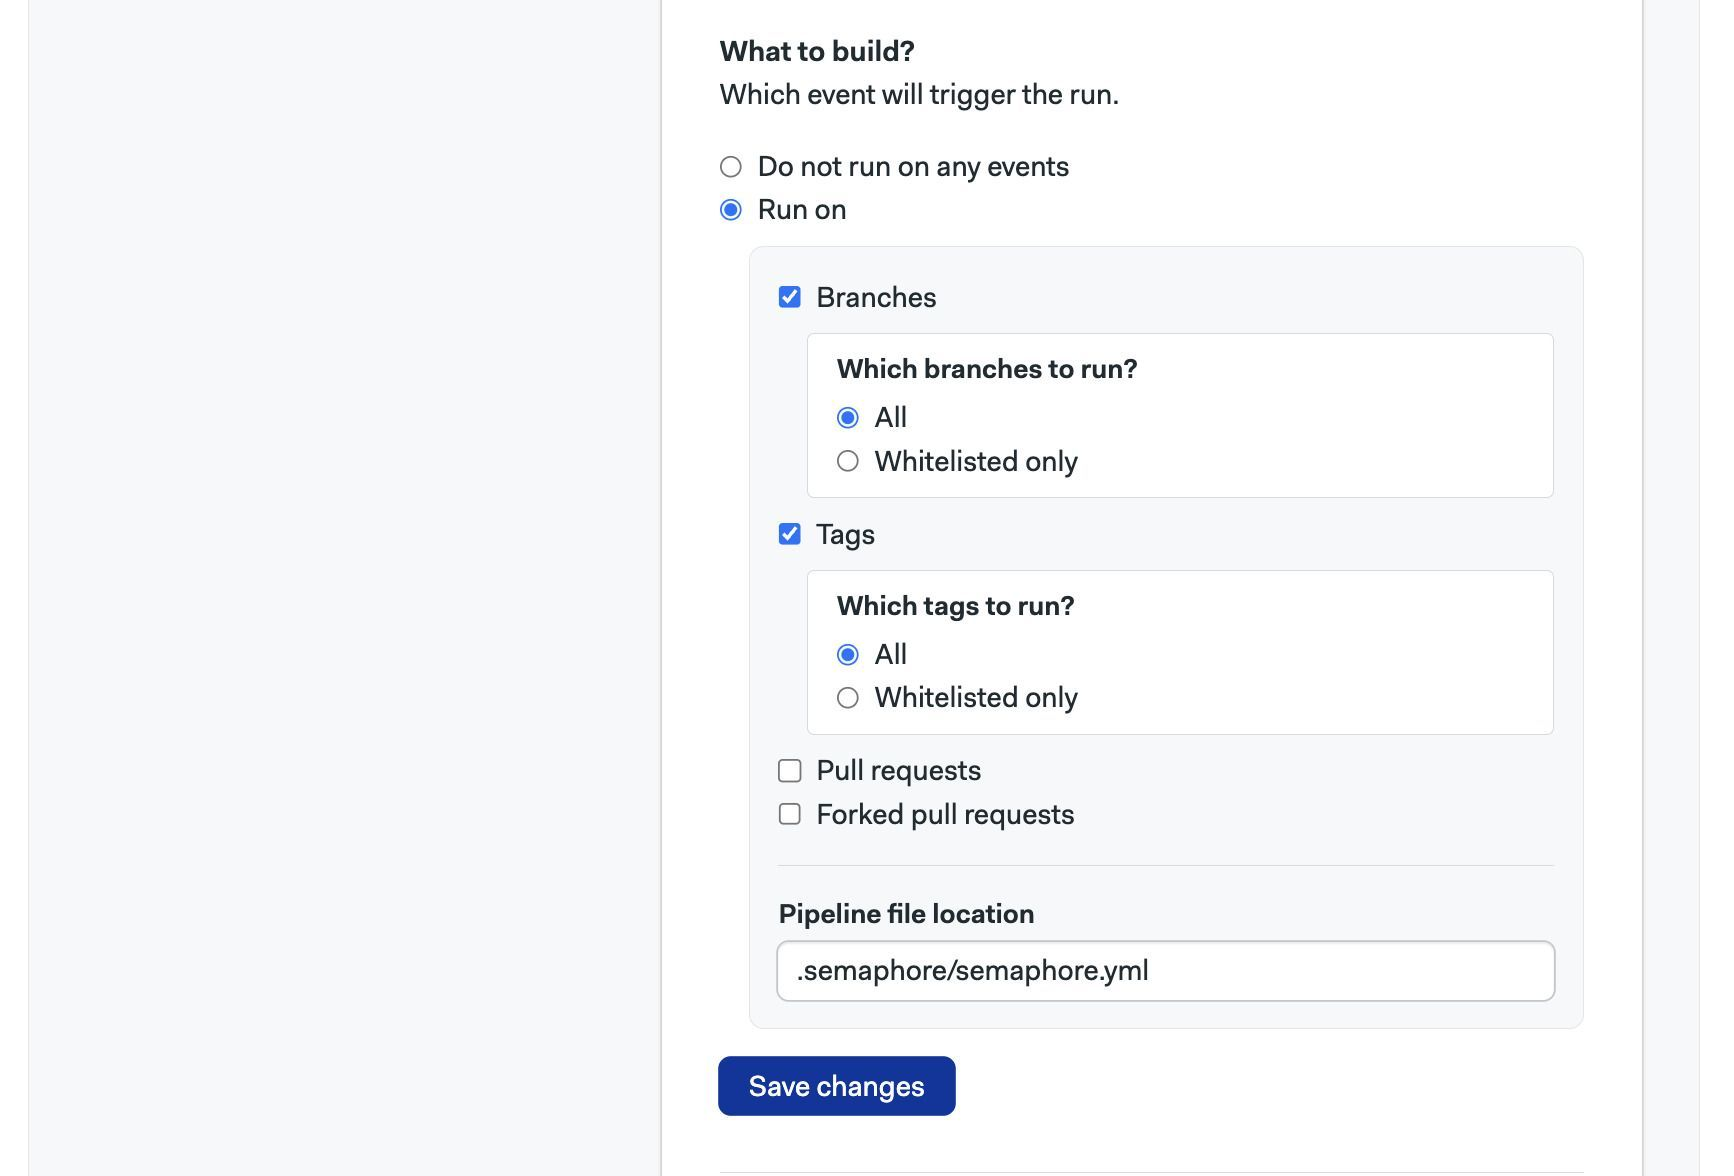
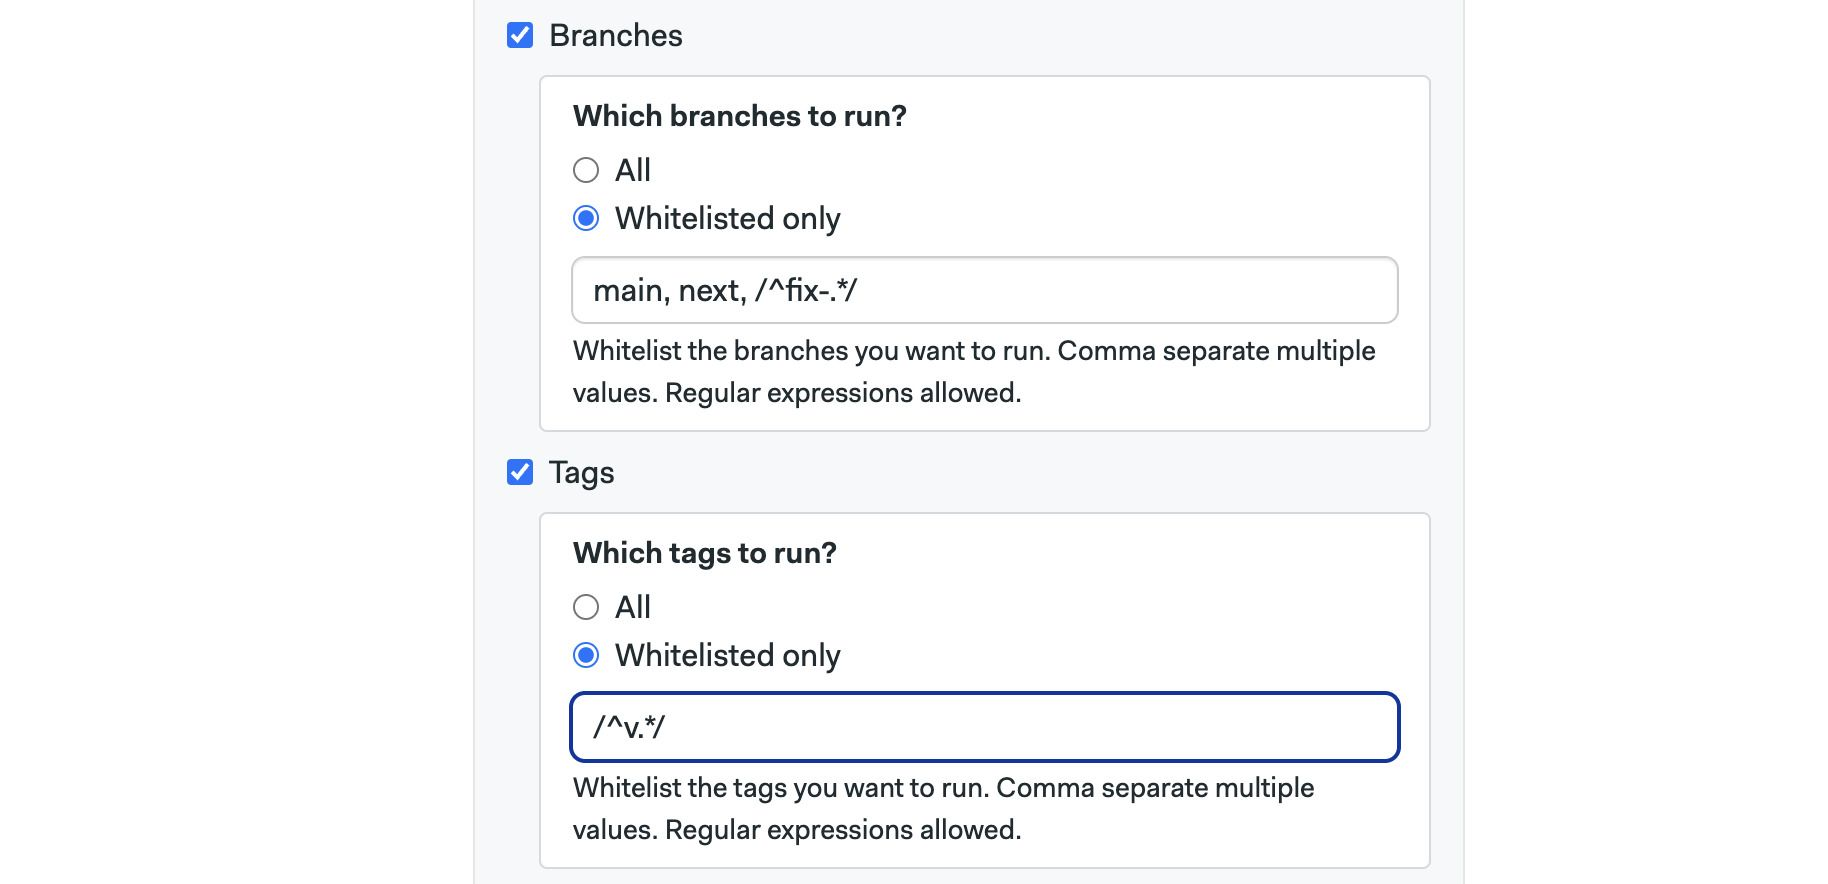
Add trigger workflow information on projects (#153)
* Checkpoint

* Grammary check

* Fix links

* Update links

* Add comment about owner

diff --git a/docs/docs/using-semaphore/projects.md b/docs/docs/using-semaphore/projects.md
@@ -9,11 +9,11 @@ import TabItem from '@theme/TabItem';
 import Available from '@site/src/components/Available';
 import VideoTutorial from '@site/src/components/VideoTutorial';
 
-Projects are repositories [continuosly integrated](https://semaphoreci.com/continuous-integration) through Semaphore. A project links your Git repository with Semaphore, so it can run [jobs](./jobs) to test, build, or deploy your application. 
+Projects are codebases developed and managed through Semaphore [Continuous Integration](https://semaphoreci.com/continuous-integration). A project links your Git repository with Semaphore, so it can run [jobs](./jobs) to test, build, or deploy your application. 
 
 This page explains how to set up projects and what settings are available.
 
-## Create a project {#project-creation}
+## Create a project {#create-project}
 
 <VideoTutorial title="Create a Project" src="https://www.youtube.com/embed/Y4Ac5EJpzEc?si=INZVrNw4LTWg3l6k"/>
 
@@ -40,7 +40,7 @@ Go to Semaphore, press **+Create New** 1 and then press **Choose repository**
     ![Select repository](./img/create-project-2.jpg)
     </div>
     </details>
-3. [Admins and Owners](./rbac#org) may optionally invite repository memebrs to your Semaphore organization and project. Press **Continue**
+3. Optionally, [add people](./organizations#people) to the project. Press **Continue**
     <details>
     <summary>Show me</summary>
     <div>
@@ -120,85 +120,30 @@ hello-semaphore                      git@github.com:semaphoreci-demos/hello-sema
 </TabItem>
 </Tabs>
 
-## How to add people {#people}
+## Workflow triggers {#triggers}
 
-Semaphore users a [Role Based Access Control](./rbac) model to manage permissions at the organization and project level.
+The following actions in the repository can trigger Semaphore to start the project's pipelines.
 
-You can only add people to the project if:
+- Pushing commits into any branch
+- Pushing Git tags
+- Creating pull requests from the same repository
+- Creating pull requests originating from a forked repository
+- Updating any of the project's pipelines using the [visual editor](./jobs#workflow editor)
+- Pressing the Run button on the Semaphore website
+- Requesting a re-run [using the API](../openapi-spec/workflows-reschedule)
+- Scheduling workflows [using Tasks](./tasks)
 
-- The person has been already invited to your Semaphore organization. Only [Admins and Owners](./rbac#org) can do this
-- The person already has access to the GitHub or BitBucket repository
+The reason for the trigger can be determined at runtime by examining the Semaphore environment variables in the job. See the [environment variable reference page](../reference/env-vars#semaphore) for more details.
 
-People added to the project can take actions according to their [project-level permisions](./rbac#project). To add a person, open the project on Semaphore and go to the **People** tab:
+### How pull requests are handled {#pr}
 
-1. Press **Add People**
-2. Select the user from the list of options
-3. Select the role
-4. Press **Add Selected**
-
-![Adding a member to the project](./img/add-user-2.jpg)
-
-If none of the pre-defined roles suit your needs, you can create [custom project roles](#custom).
+Semaphore starts a workflow for every push to a pull request originating from a forked repository. For security reasons, secrets are disabled in jobs triggered in this way. You can [create an allow list](#settings-triggers) with the secrets you want to expose in the project settings.
 
 :::note
 
-The people you add during [project creation](#project-creation) are assigned roles depending on their permission level on the repository. See [project roles](./rbac#project) to learn how repository roles are mapped to project roles.
+Instead of pushing the HEAD commit to the pull request, Semaphore uses the MERGE commit between the source and the upstream branch. You can find the SHA of the HEAD commit of the Pull Request in the [`SEMAPHORE_GIT_PR_SHA`](../reference/env-vars#pr-sha) environment variable.
 
 :::
-
-## Project roles {#project-roles}
-
-Semaphore provides pre-defined roles for projects. You can see what actions each role can perform by following these steps:
-
-1. Open the Organization **Settings** menu
-2. Select **Roles**
-    ![Settings Role location](./img/settings-roles.jpg)
-3. Scroll down to **Project Roles**
-4. Press the eye button next to the role you want to examine
-
-The actions with enabled checkbox are allowed for that role.
-
-![Project admin allowed actions](./img/project-admin-roles.jpg)
-
-### Custom project roles {#custom}
-
-Create custom roles to give your users the precise permissions they need. 
-
-1. Open the Organization **Settings** menu
-2. Select **Roles**
-3. Scroll down to **Project Roles**
-4. Press **New Role**
-5. Give a name a description to the new role
-6. Enable the permissions allowed to the role. You can use the search box to narrow down options
-7. Press **Save changes**
-
-![Creating a new project role](./img/create-custom-project-role.jpg)
-
-## How to change people roles {#people-roles}
-
-To change the role for the project, open your project and go to the **People** tab:
-
-1. Press the **Change role** next to the project member
-2. Select the new role
-
-![Changing a members role](./img/change-role.jpg)
-
-## How to add groups to projects {#groups-projects}
-
-<Available plans={['Scaleup']}/>
-
-Add an [organization group](./organizations#add-groups) to your project to grant all group members access to the project.
-
-To add a group to a project, open the project on Semaphore and go to the **People** tab:
-
-1. Press **Add Groups**
-2. Type the name of an existing group
-3. Select the role
-4. Press **Add Selected**
-
-The group members are granted access to the group and gain the permissions inherited from the selected role.
-
-![Add a group to the project](./img/add-group-to-project.jpg)
 
 ## Project tabs {#manage-projects}
 
@@ -210,33 +155,89 @@ Project members can view or manage the following project elements:
 - **Artifacts**: shows the [project-level artifacts](./artifacts#projects) and [retention policy](./artifacts#retention)
 - **Tasks**: shows the [tasks](./tasks)
 - **Flaky Tests**: shows the [flaky tests](./tests/flaky-tests) detected in the project
-- **People**: shows the [project members](#people)
+- **People**: shows or changes the [project members](#people)
 - **Settings**: shows the [project-level settings](#settings)
 
 ![Project tabs](./img/project-tabs.jpg)
+
+## How to add/remove people to the project {#people}
+
+:::note
+
+You must add individuals to your Git repository and to your [Semaphore organization](./organizations#people) before you can add them to your project.
+
+:::
+
+Open your project and go to the **People** tab
+
+1. Press **Add People**
+2. Select the user from the list of options
+3. Select the role
+4. Press **Add Selected**
+
+![Adding a member to the project](./img/add-user-2.jpg)
+
+See [project roles](./rbac#project-roles) for more information what actions can each role perform.
+
+### How to change permissions {#people-roles}
+
+Open your project and go to the **People** tab
+
+1. Press the **Change role** next to the project member
+2. Select the new role
+
+![Changing a members role](./img/change-role.jpg)
+
+### How to change the project's owner {#owner-change}
+
+Open the [project settings](#settings), under **Project Owner** type the username and press **Change**. The user must already have been [invited to the organization](./organizations#add-people).
+
+![Changing project owner](./img/change-project-owner.jpg)
+
+:::note
+
+Transferring ownership does not automatically grant [project roles](./rbac#project) on the project. You must still manually grant the [admin role](./rbac#project-admin) to allow the new owner manage the project.
+
+:::
 
 ## Settings {#settings}
 
 The **Settings** tab in your project allows you to customize your project settings, add project-level secrets, and manage [artifacts](./artifacts)
 
-### General settings {#general}
+### Project settings {#general}
 
 In the general project settings, you can: 
 
-- Change the owner of the project. The new owner [must be already part](#people) of the project.
-- Change the visibility and make the project publicly-viewable
+- [Change the owner](#owner-change) of the project
+- Change the visibility of the project
 - Change the project name or description
 - Delete the project
 
 ![General settings](./img/project-general-settings-1.jpg)
 
-In addition, you can select when the project is triggered:
+### Workflow triggers {#settings-triggers}
 
-- **Do not run on any events** disables automatic runs on Semaphore. You can still run workflows manually or with [tasks](./tasks)
-- **Run on** lets you enable or disable running workflows on Semaphore on branches, tags, pull requests, and forked pull requests.
-- You can create an allow list for branches and tags
+The **What to build** section allows you to configure [workflow triggers](#triggers).
 
-![General settings](./img/project-general-settings-2.jpg)
+Selecting **Do not run on any events** disables all triggers, effectively pausing the project. You can, however, still run workflows manually or with [tasks](./tasks).
+
+Selecting **Run on** allows you to configure what triggers are enabled for the project.
+
+- The **Branches** option allows you to run workflows on all branches or configure an allow list with branch names. Regular expressions are supported
+- The **Tags** options work the same but for Git tags
+
+![Branch and tag triggers](./img/project-general-settings-2.jpg)
+
+- Enabling **Pull requests** option allows Semaphore to run workflows on pull requests originating in the same repository
+- The **Forked pull request** works the same for pull requests originating from forked pull requests. [To prevent security leaks](#pr), you can configure a list of allowed secrets and GitHub/BitBucket usernames that can trigger workflows in this way
+  
+![Pull request triggers](./img/project-general-settings-3.jpg)
+
+:::note
+
+You can still approve blocked pull requests by adding a comment in the pull request containing the message `/sem-approve`. Anyone who would normally be able to run a forked pull request can also approve one.  Approving forked pull requests is limited to new comments only and is impossible for comment edits.
+
+:::
 
 ### Repository {#settings-repo}
 
@@ -256,7 +257,7 @@ To learn how to create project secrets, see the [secrets documentation page](./s
 
 Project roles: https://docs.semaphoreci.com/security/default-roles/
 
-### Badges
+### Badges {#badges}
 
 The **Badge** settings page shows you [shields](https://shields.io/) embed codes for your README or any webpage, allowing team members and users about the build status of your project.
 
@@ -269,7 +270,7 @@ To get a badge embed code:
 
 ![Using project badges](./img/project-badges.jpg)
 
-### Artifacts
+### Artifacts {#artifacts}
 
 The **Artifacts** settings page lets you configure the [artifact](./artifacts) retention policy.
 
@@ -325,7 +326,6 @@ This setting overrides the [organization-wide initialization agent](./organizati
 
 ## See also
 
-- [Role Based Access Control](./rbac)
 - [Organization pre-flight checks](./org-preflight)
 - [How to manage organizations](./organizations.md)
 - [How to configure test reports](./tests/test-reports)

diff --git a/docs/docs/using-semaphore/jobs.md b/docs/docs/using-semaphore/jobs.md
@@ -38,6 +38,10 @@ All your changes are stored as YAML pipeline definitions on your Git repository.
 
 ![Workflow editor button](./img/workflow-editor.jpg)
 
+## Jobs and blocks {#jobs-blocks}
+
+Jobs are grouped into blocks. A job always exists inside a block and a block may contain one or more jobs. Jobs in the same block run in parallel and [share common settings](#block-settings).
+
 ## How to create a job {#job-create}
 
 You can create a job with the visual editor or by creating a YAML file.
@@ -94,9 +98,9 @@ Semaphore automatically starts the job when the file is saved. Click the running
 
 ![Job log](./img/job-log.jpg)
 
-:::info
+:::tip
 
-A *block* is a group of jobs that [share common settings](#block-settings).
+Do not use `exit` in the job commands. Doing so terminates the terminal session and marks the job as failed. If you want force a non-exit status code use `return` instead.
 
 :::
 
@@ -276,10 +280,10 @@ blocks:
  <summary>How does checkout work?</summary>
  <div>
  During agent initialization, Semaphore sets four [environment variables](#environment-variables) that define how checkout works:
- - SEMAPHORE_GIT_URL: the URL of the repository (e.g. git@github.com:mycompany/myproject.git).
- - SEMAPHORE_GIT_DIR: the path where the repository is to be cloned (e.g. `/home/semaphore/myproject`)
- - SEMAPHORE_GIT_SHA: the SHA key for the HEAD used for `git reset -q --hard`
- - SEMAPHORE_GIT_DEPTH: checkout does by default a shallow clone. This is the depth level for the shallow clone. Defaults to 50
+ - [`SEMAPHORE_GIT_URL`](../reference/env-vars#git-url): the URL of the repository (e.g. git@github.com:mycompany/myproject.git).
+ - [`SEMAPHORE_GIT_DIR`](../reference/env-vars#git-dir): the path where the repository is to be cloned (e.g. `/home/semaphore/myproject`)
+ - [`SEMAPHORE_GIT_SHA`](../reference/env-vars#commit-sha): the SHA key for the HEAD used for `git reset -q --hard`
+ - [`SEMAPHORE_GIT_DEPTH`](../reference/env-vars#git-depth): checkout does by default a shallow clone. This is the depth level for the shallow clone. Defaults to 50
  </div>
 </details>
 

diff --git a/docs/docs/reference/env-vars.md b/docs/docs/reference/env-vars.md
@@ -411,6 +411,8 @@ Present only for builds where `SEMAPHORE_GIT_REF_TYPE=pull-request`
 
 The name in the format `owner_name/repo_name` of the repository from which the Pull Request originated.
 
+To distinguish workflows from original and forked repositories, you can compare [`SEMAPHORE_GIT_PR_SLUG`](#pr-slug) and [`SEMAPHORE_GIT_REPO_SLUG`](#git-repo-slug) environment variables.
+
 :::note
 
 Present only for builds where `SEMAPHORE_GIT_REF_TYPE=pull-request`
